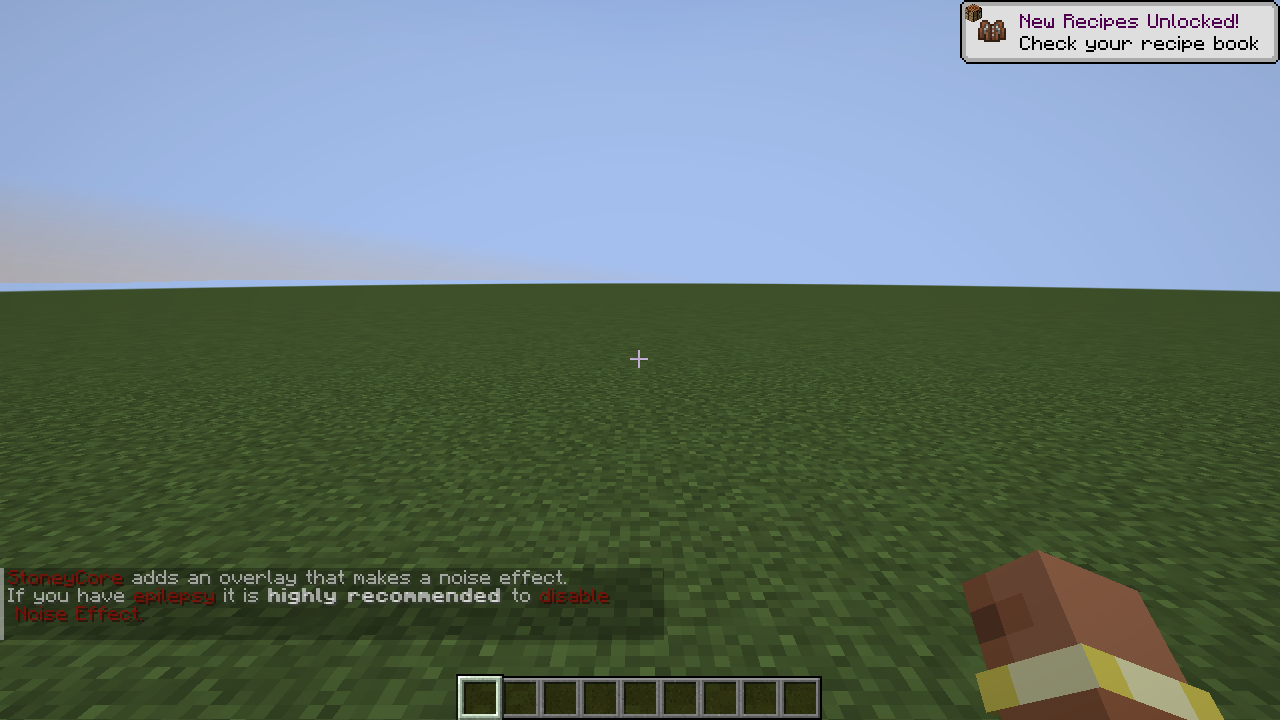
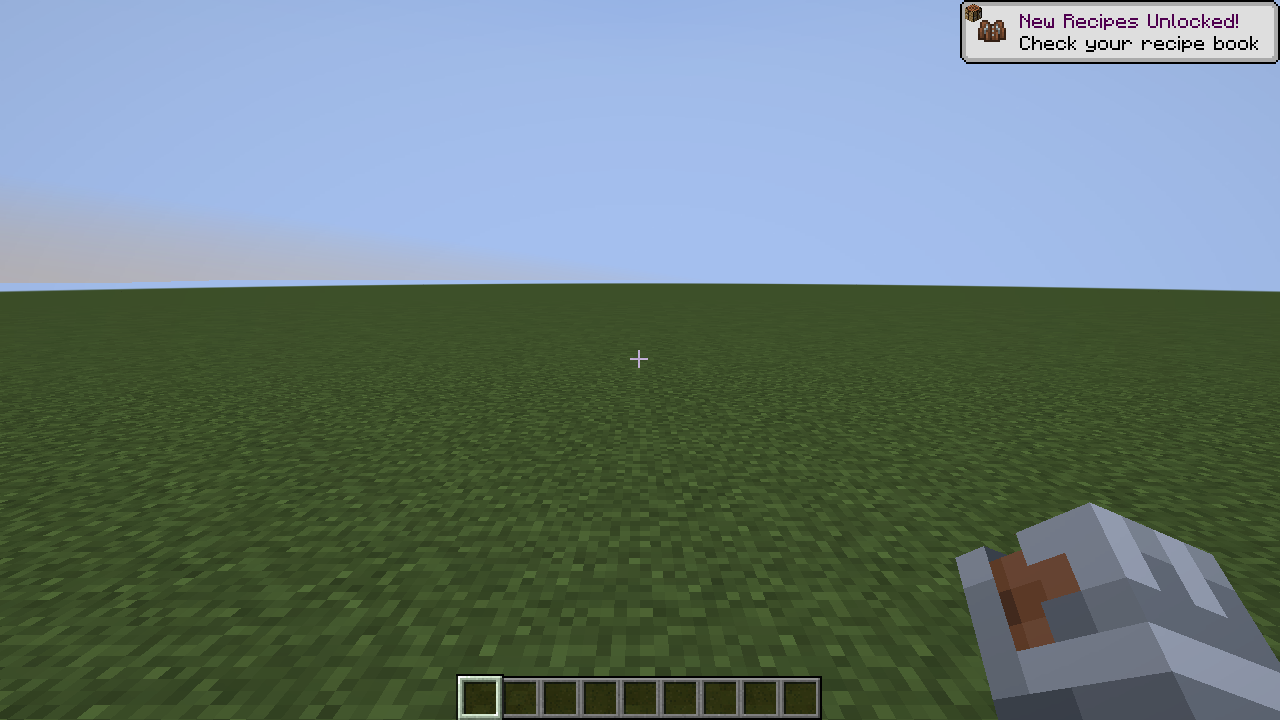
Draw the under-armour sleeve StoneyCore really uses, and the attachments, where Punchy draws armour
Claude-Session: https://claude.ai/code/session_01BQEUemARYQYQZPmNhrfX44

Changed region(s): [[0.75, 0.7028, 1.0, 1.0], [0.0, 0.7944, 0.5312, 0.8861]]

diff --git a/src/main/java/net/punchyknights/KnightsArm.java b/src/main/java/net/punchyknights/KnightsArm.java
@@ -1,103 +1,122 @@
 package net.punchyknights;
 
 import com.mojang.blaze3d.vertex.PoseStack;
-import com.mojang.blaze3d.vertex.VertexConsumer;
+import net.minecraft.client.Minecraft;
+import net.minecraft.client.model.HumanoidModel;
 import net.minecraft.client.model.geom.ModelPart;
+import net.minecraft.client.model.geom.PartPose;
 import net.minecraft.client.player.AbstractClientPlayer;
 import net.minecraft.client.player.LocalPlayer;
 import net.minecraft.client.renderer.MultiBufferSource;
 import net.minecraft.client.renderer.RenderType;
+import net.minecraft.client.renderer.entity.LivingEntityRenderer;
 import net.minecraft.client.renderer.texture.OverlayTexture;
 import net.minecraft.resources.ResourceKey;
 import net.minecraft.resources.ResourceLocation;
 import net.minecraft.world.entity.EquipmentSlot;
 import net.minecraft.world.entity.HumanoidArm;
-import net.minecraft.world.item.ArmorItem;
 import net.minecraft.world.item.ArmorMaterial;
 import net.minecraft.world.item.ItemStack;
-import net.minecraft.world.item.component.DyedItemColor;
 
-import banduty.stoneycore.client.model.UnderArmourArmModel;
 import banduty.stoneycore.client.render.armor.ArmorAttachmentRenderManager;
 import banduty.stoneycore.client.render.armor.ArmorAttachmentRenderer;
 import banduty.stoneycore.client.render.armor.ArmorTextureCache;
+import banduty.stoneycore.client.render.armor.UnderArmourRenderer;
 import banduty.stoneycore.items.custom.armor.underarmor.SCDyeableUnderArmor;
 import banduty.stoneycore.items.custom.armor.underarmor.SCUnderArmor;
-import punchy.api.PunchyApi;
 
-/**
- * Draws Knights &amp; Heraldry's armour on Punchy's first-person arm, as StoneyCore draws it on Minecraft's: the chest
- * under-armour's sleeve (its own model and texture, dyed when it is dyeable, with its overlay), then every attachment's own
- * first-person drawing (plate arms, gauntlets...). Punchy has posed the arm it hands over; the sleeve is copied onto it.
- */
-final class KnightsArm {
-    /** StoneyCore moves the sleeve a pixel outwards from the arm (it is a little wider). */
-    private static final float SLEEVE_SHIFT = 1.0F / 16.0F;
-    private static UnderArmourArmModel sleeves;
-
+/** Knights &amp; Heraldry's armour on Punchy's first-person arm, the way StoneyCore dresses the body in it. */
+public final class KnightsArm {
     private KnightsArm() {
     }
 
-    /** Whether the player wears StoneyCore under-armour on the chest: then Punchy's own armour layer has nothing to draw. */
-    static boolean wears(Object player) {
-        return player instanceof AbstractClientPlayer client && client.getItemBySlot(EquipmentSlot.CHEST).getItem() instanceof SCUnderArmor;
+    /** The chest under-armour the player wears, or null. */
+    public static SCUnderArmor worn(AbstractClientPlayer player) {
+        return player.getItemBySlot(EquipmentSlot.CHEST).getItem() instanceof SCUnderArmor armor ? armor : null;
     }
 
-    static void draw(PunchyApi.ArmDraw draw) {
-        if (draw.throughMinecraft() || !(draw.player() instanceof AbstractClientPlayer player)
-                || !(draw.poseStack() instanceof PoseStack pose) || !(draw.sink() instanceof MultiBufferSource buffers)
-                || !(draw.armPart() instanceof ModelPart arm)) {
-            // Through Minecraft's own arm, StoneyCore draws it itself.
+    /** The model StoneyCore dresses the body in for this under-armour: its arms are the sleeves. */
+    public static HumanoidModel<?> model(SCUnderArmor armor) {
+        return UnderArmourRenderer.INSTANCE.getModel(armor);
+    }
+
+    private static ResourceLocation material(ItemStack stack) {
+        if (!(stack.getItem() instanceof SCUnderArmor armor)) {
+            return null;
+        }
+        ResourceKey<ArmorMaterial> key = armor.getMaterial().unwrapKey().orElse(null);
+        return key == null ? null : key.location();
+    }
+
+    /**
+     * The sleeve of StoneyCore's chest model: not its {@code rightArm} (drawn by Punchy, it has no texture of its own) but the
+     * {@code armorRightArm} / {@code armorLeftArm} beside it, mapped on StoneyCore's own 128-pixel layout.
+     */
+    private static ModelPart sleeve(ItemStack stack, boolean left) {
+        if (!(stack.getItem() instanceof SCUnderArmor armor) || !(model(armor) instanceof banduty.stoneycore.client.model.UnderArmourChestplateModel chest)) {
+            return null;
+        }
+        net.punchyknights.mixin.ChestplateModelAccess sleeves = (net.punchyknights.mixin.ChestplateModelAccess) chest;
+        return left ? sleeves.punchyknights$leftSleeve() : sleeves.punchyknights$rightSleeve();
+    }
+
+    /** The texture StoneyCore paints the under-armour with (its base layer). */
+    public static ResourceLocation texture(ItemStack stack) {
+        ResourceLocation id = material(stack);
+        return id == null ? null : ArmorTextureCache.getBaseTexture(id.getNamespace(), id.getPath());
+    }
+
+    /**
+     * Where Punchy draws the armour's sleeve ({@code part}, posed as the arm): the sleeve itself in StoneyCore's texture (dyed, with
+     * its undyed overlay, when it is dyeable), then every
+     * attachment's own first-person drawing. Those pose themselves after the player renderer's own arm: it is posed as the sleeve
+     * while they draw, and put back after.
+     */
+    public static void afterSleeve(ModelPart part, boolean left, ItemStack stack, AbstractClientPlayer player, PoseStack pose,
+            MultiBufferSource buffers, int light) {
+        ResourceLocation id = material(stack);
+        if (id == null) {
             return;
         }
-        boolean left = draw.leftArm();
-        int light = draw.light();
-        ItemStack chest = player.getItemBySlot(EquipmentSlot.CHEST);
-        if (chest.getItem() instanceof SCUnderArmor armor) {
-            sleeve(armor, chest, arm, left, pose, buffers, light);
+        // StoneyCore's under-armour materials have no vanilla armour layers: Punchy, which draws one pass a layer, drew no sleeve.
+        ModelPart sleeve = sleeve(stack, left);
+        boolean dyeable = stack.getItem() instanceof SCDyeableUnderArmor;
+        int colour = dyeable ? net.minecraft.world.item.component.DyedItemColor.getOrDefault(stack,
+                ((SCDyeableUnderArmor) stack.getItem()).getDefaultColor()) : -1;
+        if (sleeve != null) {
+            PartPose before = sleeve.storePose();
+            sleeve.copyFrom(part);
+            sleeve.render(pose, buffers.getBuffer(RenderType.armorCutoutNoCull(ArmorTextureCache.getBaseTexture(id.getNamespace(),
+                    id.getPath()))), light, OverlayTexture.NO_OVERLAY, colour);
+            if (dyeable) {
+                sleeve.render(pose, buffers.getBuffer(RenderType.armorCutoutNoCull(ArmorTextureCache.getOverlayTexture(
+                        id.getNamespace(), id.getPath()))), light, OverlayTexture.NO_OVERLAY, -1);
+            }
+            sleeve.loadPose(before);
         }
-        if (player instanceof LocalPlayer local) {
-            HumanoidArm side = left ? HumanoidArm.LEFT : HumanoidArm.RIGHT;
+        if (!(player instanceof LocalPlayer local)
+                || !(Minecraft.getInstance().getEntityRenderDispatcher().getRenderer(player) instanceof LivingEntityRenderer<?, ?> renderer)
+                || !(renderer.getModel() instanceof HumanoidModel<?> body)) {
+            return;
+        }
+        HumanoidArm side = left ? HumanoidArm.LEFT : HumanoidArm.RIGHT;
+        ModelPart own = left ? body.leftArm : body.rightArm;
+        PartPose saved = own.storePose();
+        own.copyFrom(part);
+        try {
             for (ItemStack worn : player.getArmorSlots()) {
                 if (worn.isEmpty() || !(worn.getItem() instanceof SCUnderArmor)) {
                     continue;
                 }
                 for (ItemStack attachment : SCUnderArmor.getArmorAttachments(worn)) {
-                    ArmorAttachmentRenderer renderer = ArmorAttachmentRenderManager.getRenderer(attachment.getItem());
-                    if (renderer != null) {
-                        renderer.onRenderInFirstPerson(local, attachment, pose, buffers, light, side);
+                    ArmorAttachmentRenderer drawer = ArmorAttachmentRenderManager.getRenderer(attachment.getItem());
+                    if (drawer != null) {
+                        drawer.onRenderInFirstPerson(local, attachment, pose, buffers, light, side);
                     }
                 }
             }
+        } finally {
+            own.loadPose(saved);
         }
-    }
-
-    private static void sleeve(ArmorItem armor, ItemStack chest, ModelPart arm, boolean left, PoseStack pose, MultiBufferSource buffers,
-            int light) {
-        ResourceKey<ArmorMaterial> material = armor.getMaterial().unwrapKey().orElse(null);
-        if (material == null) {
-            return;
-        }
-        ResourceLocation id = material.location();
-        if (sleeves == null) {
-            sleeves = new UnderArmourArmModel(UnderArmourArmModel.getTexturedModelData().bakeRoot());
-        }
-        ModelPart sleeve = left ? sleeves.armorLeftArm : sleeves.armorRightArm;
-        boolean dyeable = chest.getItem() instanceof SCDyeableUnderArmor;
-        int colour = dyeable ? DyedItemColor.getOrDefault(chest, ((SCDyeableUnderArmor) chest.getItem()).getDefaultColor()) : -1;
-        render(sleeve, arm, left, pose, buffers.getBuffer(RenderType.armorCutoutNoCull(ArmorTextureCache.getBaseTexture(id.getNamespace(),
-                id.getPath()))), light, colour);
-        if (dyeable) {
-            render(sleeve, arm, left, pose, buffers.getBuffer(RenderType.armorCutoutNoCull(ArmorTextureCache.getOverlayTexture(
-                    id.getNamespace(), id.getPath()))), light, -1);
-        }
-    }
-
-    private static void render(ModelPart sleeve, ModelPart arm, boolean left, PoseStack pose, VertexConsumer out, int light, int colour) {
-        pose.pushPose();
-        pose.translate(left ? SLEEVE_SHIFT : -SLEEVE_SHIFT, 0.0F, 0.0F);
-        sleeve.copyFrom(arm);
-        sleeve.render(pose, out, light, OverlayTexture.NO_OVERLAY, colour);
-        pose.popPose();
     }
 }

diff --git a/src/main/java/net/punchyknights/mixin/ArmorModelsMixin.java b/src/main/java/net/punchyknights/mixin/ArmorModelsMixin.java
@@ -1,0 +1,58 @@
+package net.punchyknights.mixin;
+
+import com.mojang.blaze3d.vertex.PoseStack;
+import net.minecraft.client.model.Model;
+import net.minecraft.client.model.geom.ModelPart;
+import net.minecraft.client.player.AbstractClientPlayer;
+import net.minecraft.client.renderer.MultiBufferSource;
+import net.minecraft.resources.ResourceLocation;
+import net.minecraft.world.entity.Entity;
+import net.minecraft.world.item.ArmorItem;
+import net.minecraft.world.item.ArmorMaterial;
+import net.minecraft.world.item.ItemStack;
+import org.spongepowered.asm.mixin.Mixin;
+import org.spongepowered.asm.mixin.Pseudo;
+import org.spongepowered.asm.mixin.injection.At;
+import org.spongepowered.asm.mixin.injection.Inject;
+import org.spongepowered.asm.mixin.injection.callback.CallbackInfo;
+import org.spongepowered.asm.mixin.injection.callback.CallbackInfoReturnable;
+
+import banduty.stoneycore.items.custom.armor.underarmor.SCUnderArmor;
+import net.punchyknights.KnightsArm;
+
+/**
+ * Punchy! draws the chest armour on its first-person arm from the armour's model and its vanilla armour-layer texture. For
+ * StoneyCore's under-armour it gets the model and the texture StoneyCore dresses the body in, and after the sleeve the
+ * attachments are drawn on it.
+ */
+@Pseudo
+@Mixin(targets = "punchy.client.render.ArmorModels", remap = false)
+abstract class ArmorModelsMixin {
+    @Inject(method = "modelOf", at = @At("HEAD"), cancellable = true, require = 0)
+    private static void punchyknights$model(AbstractClientPlayer player, boolean left, CallbackInfoReturnable<Model> cir) {
+        SCUnderArmor armor = KnightsArm.worn(player);
+        if (armor != null) {
+            cir.setReturnValue(KnightsArm.model(armor));
+        }
+    }
+
+    @Inject(method = "layerTexture", at = @At("HEAD"), cancellable = true, require = 0)
+    private static void punchyknights$texture(Entity entity, ItemStack stack, ArmorMaterial.Layer layer,
+            CallbackInfoReturnable<ResourceLocation> cir) {
+        if (stack.getItem() instanceof SCUnderArmor) {
+            ResourceLocation texture = KnightsArm.texture(stack);
+            if (texture != null) {
+                cir.setReturnValue(texture);
+            }
+        }
+    }
+
+    @Inject(method = "drawArmPart", require = 0, at = @At(value = "INVOKE", ordinal = 0,
+            target = "Lnet/minecraft/client/model/geom/ModelPart;loadPose(Lnet/minecraft/client/model/geom/PartPose;)V"))
+    private static void punchyknights$attachments(ModelPart part, boolean left, ArmorItem armor, ItemStack stack,
+            AbstractClientPlayer player, PoseStack pose, MultiBufferSource buffers, int light, CallbackInfo ci) {
+        if (armor instanceof SCUnderArmor) {
+            KnightsArm.afterSleeve(part, left, stack, player, pose, buffers, light);
+        }
+    }
+}

diff --git a/src/main/java/net/punchyknights/PunchyKnights.java b/src/main/java/net/punchyknights/PunchyKnights.java
@@ -1,28 +1,15 @@
 package net.punchyknights;
 
 import net.neoforged.api.distmarker.Dist;
-import net.neoforged.bus.api.IEventBus;
 import net.neoforged.fml.common.Mod;
-import net.neoforged.fml.event.lifecycle.FMLClientSetupEvent;
-
-import punchy.api.PunchyApi;
 
 /**
- * Punchy x Knights &amp; Heraldry: Punchy! draws the first-person arms itself, and for armour it looks for a vanilla armour
- * texture that StoneyCore's under-armour (all of Knights &amp; Heraldry's body armour) does not have, so the sleeve came out
- * black and purple. Through Punchy's own API this hides Punchy's armour layer while such armour is worn, and draws on the arm
- * what StoneyCore draws on Minecraft's first-person arm: the under-armour sleeve and the plates and gauntlets put on it.
+ * Punchy x Knights &amp; Heraldry: Punchy! draws the first-person arms itself, and the armour on them the vanilla way, from the
+ * chest armour's model and vanilla armour-layer texture. StoneyCore's under-armour (all of Knights &amp; Heraldry's body armour)
+ * has neither where Punchy looks, so the arm came out black and purple. {@link net.punchyknights.mixin.ArmorModelsMixin} hands
+ * Punchy the model and texture StoneyCore dresses the body in, and draws the attachments (plates, gauntlets) after the sleeve.
  */
 @Mod(value = PunchyKnights.MOD_ID, dist = Dist.CLIENT)
 public final class PunchyKnights {
     public static final String MOD_ID = "punchyknights";
-
-    public PunchyKnights(IEventBus modBus) {
-        modBus.addListener(FMLClientSetupEvent.class, event -> event.enqueueWork(PunchyKnights::setup));
-    }
-
-    private static void setup() {
-        PunchyApi.hideLayers(MOD_ID, (player, left) -> KnightsArm.wears(player) ? PunchyApi.LAYER_ARMOR : 0);
-        PunchyApi.drawOnArm(MOD_ID, KnightsArm::draw);
-    }
 }

diff --git a/src/devtools/java/net/punchyknights/devtools/ShotDriver.java b/src/devtools/java/net/punchyknights/devtools/ShotDriver.java
@@ -77,6 +77,8 @@ public final class ShotDriver {
         when("title", () -> Minecraft.getInstance().screen instanceof TitleScreen, this::createWorld);
         when("in world", () -> Minecraft.getInstance().player != null && Minecraft.getInstance().getSingleplayerServer() != null
                 && Minecraft.getInstance().screen == null, () -> wait = 80);
+        then("look bare", 40, () -> server(player -> player.teleportTo(player.serverLevel(), 0.5, -60, 0.5, 0.0F, 10.0F)));
+        then("bare shot", 5, () -> shot("00_bare"));
         then("dress", 40, () -> dress(true));
         then("look", 40, () -> server(player -> player.teleportTo(player.serverLevel(), 0.5, -60, 0.5, 0.0F, 10.0F)));
         then("arms shot", 5, () -> shot("01_arms_plate"));

diff --git a/src/main/java/net/punchyknights/mixin/ChestplateModelAccess.java b/src/main/java/net/punchyknights/mixin/ChestplateModelAccess.java
@@ -1,0 +1,17 @@
+package net.punchyknights.mixin;
+
+import net.minecraft.client.model.geom.ModelPart;
+import org.spongepowered.asm.mixin.Mixin;
+import org.spongepowered.asm.mixin.gen.Accessor;
+
+import banduty.stoneycore.client.model.UnderArmourChestplateModel;
+
+/** The sleeves of StoneyCore's chest under-armour model, which it keeps to itself. */
+@Mixin(value = UnderArmourChestplateModel.class, remap = false)
+public interface ChestplateModelAccess {
+    @Accessor("armorRightArm")
+    ModelPart punchyknights$rightSleeve();
+
+    @Accessor("armorLeftArm")
+    ModelPart punchyknights$leftSleeve();
+}

diff --git a/README.md b/README.md
@@ -8,15 +8,18 @@ armour's vanilla armour-layer texture. Knights & Heraldry's body armour is Stone
 with plates, mail and gauntlets put on it as attachments; it has no vanilla armour-layer texture, so Punchy's arm came out black
 and purple (the missing texture).
 
-**The fix**, through Punchy's own public API (`PunchyApi.hideLayers` and `PunchyApi.drawOnArm`): while StoneyCore under-armour is
-worn on the chest, Punchy's armour layer is left out, and what StoneyCore draws on Minecraft's own first-person arm is drawn on
-Punchy's arm instead, in the pose Punchy gives it: the under-armour sleeve with its texture (dyed when it is dyeable, with its
-overlay), then each attachment's own first-person drawing. When Punchy hands the arm back to Minecraft, StoneyCore draws it
-itself as before.
+**The fix.** Punchy draws the chest armour's arm from the armour's model and its armour-layer textures. For StoneyCore's
+under-armour this mod hands it the model and texture StoneyCore dresses the body in, and draws the sleeve itself where Punchy
+draws armour: StoneyCore keeps its real sleeves in separate parts (`armorRightArm` / `armorLeftArm`) mapped on its own
+128-pixel texture, and its armour materials have no vanilla layers for Punchy to draw. The sleeve is dyed as the under-armour
+is, with its overlay; then every attachment put on it (plate arms, gauntlets...) is drawn with Knights & Heraldry's own
+first-person renderer, posed as Punchy's arm.
 
-| Before (Punchy alone) | With this mod | Holding a sword |
-|---|---|---|
-| ![Before](docs/before.png) | ![After](docs/after.png) | ![With a sword](docs/after_sword.png) |
+| Before (Punchy alone, gambeson with plates) | Gambeson | Gambeson with plate cuirass and gauntlets | Holding a sword |
+|---|---|---|---|
+| ![Before](docs/before.png) | ![Gambeson](docs/after_gambeson.png) | ![Plates](docs/after.png) | ![With a sword](docs/after_sword.png) |
+
+For comparison, the bare arm (the dev skin) is in `docs/bare.png`.
 
 ## Requirements
 
